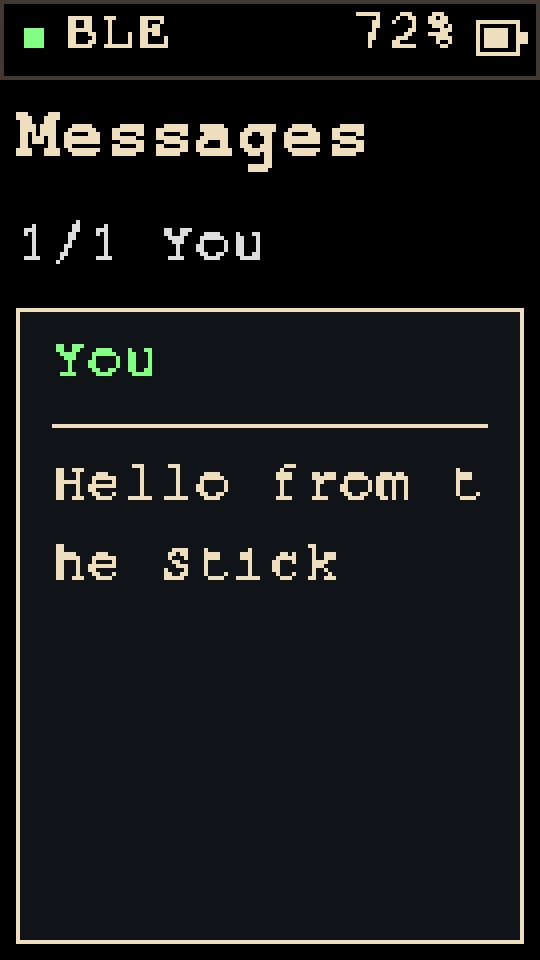
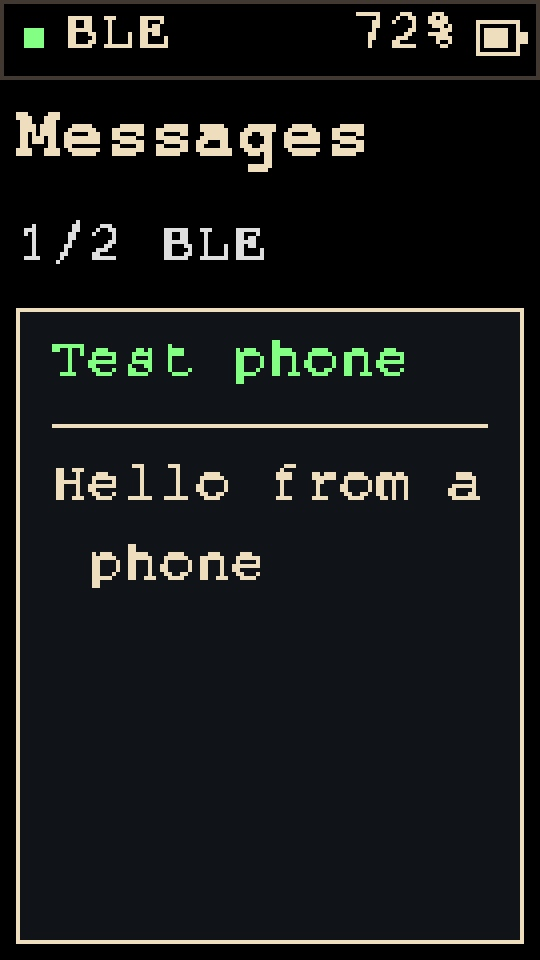
docs: document Mesh inboxes unread badges and read receipts
- Match the owner's Mesh naming and separate shared chat from direct messages.
- Refresh JPEG previews with synthetic incoming traffic and unread indicators.
- Record the installed firmware hash and two authenticated hardware connections.
- Extend device acceptance checks for per-message unread and delivered-to-read transitions.

diff --git a/tools/export-preview-jpegs.swift b/tools/export-preview-jpegs.swift
@@ -15,7 +15,7 @@ func text(_ text:String,_ x:CGFloat,_ y:CGFloat,_ size:CGFloat,_ bold:Bool=false
 text("BITCHAT STICK",48,31,38,true)
 text("FreeMono / cream #EBDCBA / 135 × 240 / simulated data",50,86,19)
 let names=["07-splash","01-dashboard","02-nearby-peers","03-channels","04-channel-messages","05-infobot","06-settings","08-brightness","10-battery","09-about","11-diagnostics"]
-let titles=["START","HOME","NEARBY","CHANNELS","MESSAGES","INFOBOT","SETTINGS","BRIGHTNESS","BATTERY","ABOUT","DIAGNOSTICS"]
+let titles=["START","HOME","NEARBY","INBOX","MESSAGES","INFOBOT","SETTINGS","BRIGHTNESS","BATTERY","ABOUT","DIAGNOSTICS"]
 for i in 0..<11 {
  let x=CGFloat(50+(i%6)*360),y=CGFloat(i<6 ? 145:615)
  text(titles[i],x,y,16,true)

diff --git a/test/ui_preview.cpp b/test/ui_preview.cpp
@@ -1,6 +1,8 @@
 #include "../src/Ui.cpp"
 #include <cassert>
 #include <fstream>
+#include <Preferences.h>
+#include "PacketSecurity.h"
 namespace stick {
 bool transportReady(){return true;}
 size_t transportLinks(){return 1;}
@@ -23,6 +25,14 @@ int main(int argc, char** argv) {
   auto entropy=[](void* out,size_t n){for(size_t i=0;i<n;++i)static_cast<uint8_t*>(out)[i]=uint8_t(i+17);};
   assert(identity.begin(entropy));mesh().begin(identity,entropy,[](wire::Bytes,uint16_t,uint16_t){return true;});
   mesh().tick(3000,1800000000000ULL);assert(mesh().sendText("Hello from the Stick"));
+  // Synthetic incoming public traffic exercises the unread envelope and real peer grouping.
+  fake_preferences::identityExists=false;fake_preferences::identityLength=0;
+  Identity other;auto otherEntropy=[](void* out,size_t n){for(size_t i=0;i<n;++i)static_cast<uint8_t*>(out)[i]=uint8_t(i+59);};assert(other.begin(otherEntropy));
+  uint8_t announcement[90]={1,10,'T','e','s','t',' ','p','h','o','n','e',2,32};
+  std::memcpy(announcement+14,other.dhPublic(),32);announcement[46]=3;announcement[47]=32;std::memcpy(announcement+48,other.signingPublic(),32);
+  auto incoming=[&](uint8_t type,wire::Bytes payload){uint8_t encoded[4096],scratch[4096],sig[64];size_t n=0;wire::FrameView f;f.type=type;f.ttl=7;f.timestamp=1800000000000ULL;f.sender={other.id(),8};f.payload=payload;
+    assert(wire::signPacket(f,other.signingSecret(),scratch,sizeof(scratch),sig));f.signature={sig,64};assert(wire::encode(f,encoded,sizeof(encoded),n)==wire::Error::None);mesh().receive({encoded,n},1);};
+  incoming(1,{announcement,80});const char* text="Hello from a phone";incoming(2,{reinterpret_cast<const uint8_t*>(text),std::strlen(text)});
   beginUi();battery=72;voltage=4000;
   const Screen pages[]={Screen::Dashboard,Screen::Peers,Screen::Channels,Screen::Messages,Screen::Bot,Screen::Settings,Screen::Splash,Screen::Brightness,Screen::About,Screen::Battery,Screen::Diagnostics};
   const char* names[]={"01-dashboard","02-nearby-peers","03-channels","04-channel-messages","05-infobot","06-settings","07-splash","08-brightness","09-about","10-battery","11-diagnostics"};

diff --git a/docs/04-screens.md b/docs/04-screens.md
@@ -24,17 +24,17 @@ Target: **M5StickC Plus2, 135 × 240 pixels, portrait, en-US**. The editable [Fi
 | A held ≥700ms | Reserved; no confirmation on release |
 | C held ≥700ms | No down action on release; six-second hold retains power off |
 
-Messages returns to Channels on hold-B. Splash only leaves on short-A. Short actions occur on release, with no auto-repeat. The first press after the 30-second screen timeout only wakes the display; navigation stays suppressed until all buttons are released. Scanning continues on its normal schedule. Brightness is restored from a versioned NVS record on boot; invalid/missing records use 50%. Only explicit confirmations write flash; known unchanged saved values are skipped, while invalid/unknown records are repaired. Failed saves show `Not saved / RAM only` in Settings.
+Messages returns to Inbox on hold-B. Splash only leaves on short-A. Short actions occur on release, with no auto-repeat. The first press after the 30-second screen timeout only wakes the display; navigation stays suppressed until all buttons are released. Scanning continues on its normal schedule. Brightness is restored from a versioned NVS record on boot; invalid/missing records use 50%. Only explicit confirmations write flash; known unchanged saved values are skipped, while invalid/unknown records are repaired. Failed saves show `Not saved / RAM only` in Settings.
 
 ## Screens and data sources
 
 | Screen | Live behavior | Limits / future scope |
 |---|---|---|
 | Start | Name, shared controls, A enters Home | Final logo remains a design asset task |
-| Home | Advertisement candidates, signed-peer count, real relay/transport state | Counts do not prove channel membership |
+| Home | Advertisement candidates, signed-peer/unread counts, envelope, real relay/transport state | Counts do not prove channel membership |
 | Nearby | Signed peers take priority when available; otherwise filtered candidates; A opens ID/address details | Signed-only and Noise-authenticated statuses are distinct; RSSI belongs only to observations |
-| Channels | Public BLE `#bluetooth`, transport status and Inbox + DMs; A opens Messages | No private groups or Nostr context |
-| Messages | Twelve-entry public/DM live history with BLE/DM labels; B/C cycle messages; A opens text-scroll mode; B/C scroll; hold-B leaves detail, then returns to Channels | RAM-only, 192 displayed bytes, truncation indicated; no composer |
+| Inbox | Separate Mesh (`#bluetooth`) and Direct DMs destinations with unread counts; A opens the selected history | No private groups or Nostr context |
+| Messages | Twelve-entry public/DM live history with BLE/DM labels; B/C cycle messages; A opens text-scroll mode; B/C scroll; hold-B leaves detail, then returns to Inbox | RAM-only, 192 displayed bytes, truncation indicated; no composer |
 | InfoBot | Command reference, authentication readiness, immediate Bot ON/OFF switch | Toggle is per boot; Welcome OFF |
 | Settings | Four working destinations | Additional configuration is future scope |
 | Brightness | Five presets, explicit apply, persistent value, visible save failure | Physical 5% readability remains to be checked |
@@ -93,3 +93,9 @@ The **95 × 95px** QR points to **https://github.com/wanderlima/bitchat-stick**.
 ## Verification and previews
 
 The [eleven JPEG previews](screens/README.md) are generated from current drawing calls and pinned font bitmaps, using simulated measurements. They are not hardware screenshots or protocol evidence. The host UI regression checks controls, applied-versus-focused brightness, all screens, live status, ordinary/candidate/empty peers, large counters and text/rectangle bounds. Physical readability, battery behavior, radio scanning, and QR camera reading need a device pass after upload.
+
+## Inbox and read state
+
+**Mesh** is a label for the apps' existing public local mesh (`#bluetooth`), not a new room created by the Stick. Multiple nearby participants share it. **Direct DMs** filters private messages addressed to the Stick. The header envelope appears whenever a retained incoming message is unread; Home and each inbox show counts. Viewing one message marks only that entry read. Incoming messages do not replace the message currently being read.
+
+For DMs, a local read schedules the official encrypted Noise read receipt (`0x02` plus the original message ID). Unopened DMs produce only delivered receipts (`0x03`). Pending read receipts retry with bounded work when a suitable authenticated session is available. A queued receipt is not guaranteed radio delivery, and read state is not persisted across reboot.

diff --git a/docs/13-device-checklist.md b/docs/13-device-checklist.md
@@ -9,7 +9,9 @@ Date: **2026-11-10**. Device name: **Bitchat Stick**. Supported context: public 
 - [x] Reproduced startup reboot loop fixed by pausing scanning during GATT registration.
 - [x] Android 2.2.0 recognized the Stick's signed announcement and established Noise; Stick reported an authenticated peer with zero protocol rejects during observation.
 - [x] Owner confirmed that the device appeared in the network.
-- [ ] Final display, full iOS messaging, two-phone relay and endurance acceptance below.
+- [x] Final short USB observation showed two subscribed links and two authenticated peers; this is not indirect-relay proof.
+- [x] Owner confirmed Android DM delivery status and reading the DM on the Stick.
+- [ ] Final display, unread/read-status acceptance, full iOS messaging, controlled relay and endurance below.
 
 ## 1. Display and navigation
 
@@ -38,7 +40,8 @@ Date: **2026-11-10**. Device name: **Bitchat Stick**. Supported context: public 
 
 Use your own test phones and synthetic content. Public BLE messages are visible to nearby participants.
 
-- [ ] From Android, send a unique public message such as `android-stick-001` in #bluetooth; it appears in Channels → Messages on the Stick.
+- [ ] In Inbox, verify **Mesh** and **Direct DMs** are separate. Mesh is the shared local public conversation, not a room created by the Stick.
+- [ ] From Android, send a unique public message such as `android-stick-001` in #bluetooth; it appears in Inbox → Mesh on the Stick.
 - [ ] Repeat from iPhone with `ios-stick-001`. Verify sender name and actual content.
 - [ ] B/C changes message; A enters text scrolling; B/C scrolls long text; hold-B leaves detail, then Messages.
 - [ ] Send long text, accents and emoji: no crash, unsupported display glyphs are substituted, and truncation is indicated when applicable.
@@ -51,11 +54,13 @@ Use your own test phones and synthetic content. Public BLE messages are visible 
 ## 4a. Private-message reader
 
 - [ ] Wait for **Noise auth**, then send a new DM from Android directly to **Bitchat Stick**.
-- [ ] Open Channels → Messages: the message appears with a **DM** label and correct sender/content.
-- [ ] The Android delivery indicator may update after the encrypted delivered receipt; this is not a read receipt.
+- [ ] Open Inbox → Direct DMs: the message appears with a **DM** label and correct sender/content.
+- [ ] Before opening the DM on the Stick, Android should show delivered only. Opening it sends the encrypted read receipt; verify Android changes to read within a few seconds while connected.
 - [ ] Repeat from iPhone; test long text and reconnect. Earlier DMs sent before the update are not automatically recovered.
 - [ ] Send `!info` as a DM: it is displayed privately and never produces a public InfoBot reply.
-- [ ] Check Home's message count and mixed BLE/DM history without confusing public-channel privacy.
+- [ ] A new incoming message shows the envelope and increments unread counts. Reading one entry clears only that entry; opening Mesh must not clear unread DMs.
+- [ ] While reading an older message, a new arrival preserves focus and remains unread.
+- [ ] Repeat the delivered → read transition on iPhone; test reconnect before opening the DM.
 
 ## 5. Controlled relay — do not skip negative controls
 
@@ -74,4 +79,4 @@ Use your own test phones and synthetic content. Public BLE messages are visible 
 
 ## Limits that are not failures of this version
 
-No private-message sending, media/groups, geographic/Nostr channels, sync/history recovery, OTA or message composer/canned-reply UI. History and peer pins are in RAM; local identity and brightness persist in unencrypted NVS. Outgoing public sending is currently exercised through InfoBot and public relay; private sending is limited to protocol delivery receipts. Queue/notification acceptance is not end-to-end delivery confirmation. Welcome automation intentionally stays disabled.
+No private-message sending, media/groups, geographic/Nostr channels, sync/history recovery, OTA or message composer/canned-reply UI. History and peer pins are in RAM; local identity and brightness persist in unencrypted NVS. Outgoing public sending is currently exercised through InfoBot and public relay; private sending is limited to protocol delivery receipts. Queue/notification acceptance is not end-to-end delivery confirmation; the sender app must actually receive the encrypted delivered/read receipt. Welcome automation intentionally stays disabled.

diff --git a/docs/11-implementation-plan.md b/docs/11-implementation-plan.md
@@ -1,6 +1,6 @@
 # Implementation plan by screen and complexity
 
-Updated: **2026-11-10**. English (en-US) firmware v0.2.0. Source implementation is complete for the current eleven-screen public-BLE scope. Physical acceptance is intentionally separate: use the [device checklist](13-device-checklist.md). Future product ideas are not represented as implemented.
+Updated: **2026-11-10**. English (en-US) firmware v0.2.0. Source implementation is complete for the current eleven-screen public-BLE and received-DM scope. Physical acceptance is intentionally separate: use the [device checklist](13-device-checklist.md). Future product ideas are not represented as implemented.
 
 ## Screen order — lowest to highest complexity
 
@@ -12,10 +12,10 @@ Updated: **2026-11-10**. English (en-US) firmware v0.2.0. Source implementation 
 | 4 | Brightness | 5/25/50/75/100%, explicit apply, NVS persistence/error handling | All levels on USB/battery; full power cycle |
 | 5 | Battery | Voltage, approximate percentage, unknown/low states | Compare USB/battery; measure actual endurance |
 | 6 | Diagnostics | BLE reports/drops, heap, uptime, mesh accept/reject and clock | Long-run counters and memory trend |
-| 7 | Home | Candidate/peer totals, relay state, live header | State transitions, no erase/redraw flicker |
+| 7 | Home | Candidate/peer/unread totals, relay state, live header | State transitions, no erase/redraw flicker |
 | 8 | Nearby | Filtered candidates, signed peers, Noise authentication, stable candidate selection, IDs/details | Android/iOS foreground/background/reconnect behavior |
 | 9 | Messages | Signed public and authenticated private input, bounded history, paging and text scrolling | Real text, Unicode substitution, truncation, reconnect |
-| 10 | Channels | Public BLE #bluetooth and actual transport availability | Offline context and controlled indirect forwarding |
+| 10 | Inbox | Public BLE #bluetooth and actual transport availability | Offline context and controlled indirect forwarding |
 | 11 | InfoBot | Authenticated fresh commands, reply limits, ON/OFF control, welcomes OFF | Cross-platform replies, cooldown, no reply loops |
 
 ## Completed engineering groups
@@ -31,6 +31,9 @@ Updated: **2026-11-10**. English (en-US) firmware v0.2.0. Source implementation 
 9. Fix the hardware-reproduced startup assertion; add idle-GAP, overflow and fragment transport regressions.
 10. Automatically initiate Noise after discovery; verify Android announcement and handshake on hardware.
 11. Connect all current screens to real state, add the bot switch, buffer display updates, and document acceptance limits.
+12. Decode received DMs and send encrypted delivered receipts without exposing private text to InfoBot.
+13. Separate Mesh/Direct DMs inboxes; add unread envelope/counts and stable per-message read state.
+14. Send encrypted read receipts when a DM is displayed, with bounded retries and explicit mobile acceptance checks.
 
 Each implementation group is committed separately; no push is part of this work. Native success and upload verification do not turn the remaining physical checks into passes.
 

diff --git a/docs/06-testing.md b/docs/06-testing.md
@@ -86,11 +86,20 @@ The first integrated upload reproduced a NimBLE GATT-registration assertion whil
 
 The framebuffer revision was built/uploaded after the owner reported lighter redraw flicker; physical visual acceptance remains with the owner. Use the [device checklist](13-device-checklist.md) to record the final revision, both phone versions and each actual result.
 
-### Final installed source snapshot
+### Earlier DM-reader snapshot (superseded)
 
 - Firmware source commit: `1872efb` (documentation/export commits afterward do not change the installed firmware).
[1 lines of base64/hex data omitted]
 - Target build: 97,336 bytes static RAM and 974,785 bytes application flash; the 64,800-byte display canvas is allocated dynamically in PSRAM.
 - Final observed runtime samples: one subscribed link, one authenticated peer, active RTC, zero rejected packets in the captured interval and about 145,000 bytes free internal heap. These are short observations, not endurance results.
 - Fourteen native suites and the independent CryptoKit signature check passed after private-text/receipt integration. JPEG previews were regenerated from the real UI with simulated data and visually inspected.
-- The owner's initial missing message was identified as an Android DM sent before private-text display support. The DM reader/receipt update was installed and a new trial requested; receipt/display of that retry has not yet been confirmed.
+- The owner's initial missing message was identified as an Android DM sent before private-text display support. The DM reader/receipt update was installed; the owner subsequently confirmed Android delivery status and reading the DM on the Stick. Remote read status was not yet implemented at that checkpoint.
+
+### Current installed Inbox / Mesh / read-receipt revision
+
+- Firmware source commit: `ca9f68b`. Later documentation/export changes do not alter the installed firmware.
[1 lines of base64/hex data omitted]
+- Build: 98,296 bytes static RAM; 977,057 bytes application flash. Upload completed with hash verification.
+- Final short USB observation: `links=2 peers=2 auth=2 accepted=13 rejected=0 queued=16 relay=7 drops=3 heap=144040 clock=RTC`. This confirms simultaneous subscribed/authenticated peers and source-level forwarding activity, not a controlled indirect-delivery test. Drops include attempts without a usable destination; they are not equivalent to protocol rejections.
+- Native suites passed after inbox filtering, unread tracking, stable reader focus and encrypted read receipts. Tests decrypt the exact read-receipt payload, verify no read receipt before opening, and retry a failed enqueue.
+- Owner confirmed Android delivery and DM reading before this revision. The new Android/iOS delivered-to-read UI transition remains a manual acceptance check.

diff --git a/README.md b/README.md
@@ -41,12 +41,13 @@ The interface uses FreeMono Regular/Bold, warm cream `#EBDCBA` instead of pure w
 
 ## Live features and remaining scope
 
-- Home, Nearby, Channels, Messages, InfoBot, Settings, Brightness, Battery, About, and Diagnostics use real firmware state.
+- Home, Nearby, Inbox, Messages, InfoBot, Settings, Brightness, Battery, About, and Diagnostics use real firmware state.
 - Nearby distinguishes service-advertisement candidates, signed peers, and Noise-authenticated peers. A signed name is not an out-of-band verified human identity.
-- Channels opens the public BLE `#bluetooth` context. Messages reads signed public text and authenticated DMs, with explicit BLE/DM labels. It keeps twelve RAM-only entries, with message paging and text scrolling; at most 192 bytes are rendered per entry, with an explicit truncation mark.
+- Inbox separates **Mesh** (the shared public BLE `#bluetooth` context) and **Direct DMs** (private messages addressed to this Stick). It does not create a new channel. Messages reads signed public text and authenticated DMs, with explicit BLE/DM labels. It keeps twelve RAM-only entries, with message paging and text scrolling; at most 192 bytes are rendered per entry, with an explicit truncation mark.
 - Signed public announcements and text are verified, deduplicated, and eligible for TTL-limited forwarding without echoing the ingress link. Queue acceptance is not a delivery acknowledgement.
 - InfoBot supports `!info`, `!rules`, and `!help`, plus `!regras`/`!ajuda` aliases. Commands require an authenticated peer and recent signed public text. Per-peer/global limits prevent reply floods. The on-device `Bot: ON/OFF` switch applies immediately for the current boot.
 - Welcome messages remain OFF because discovery/reconnection does not reliably prove channel entry.
+- An envelope in the header indicates unread incoming messages. Home and each inbox show unread counts; opening a DM sends an encrypted read receipt. New arrivals preserve the current reading position. Unread state is RAM-only.
 - Drawing uses a 135 × 240 offscreen framebuffer before updating the display, avoiding the visible erase/redraw cycle.
 
 Private-message composition/media, private groups, Nostr, gossip/history synchronization, arbitrary routed Noise forwarding, OTA, persistent chat history, and Pocket Messenger composition/canned replies remain future scope. See the [wire contract and security limits](docs/12-wire-contract.md) and [current implementation plan](docs/11-implementation-plan.md).

diff --git a/docs/09-getting-started.md b/docs/09-getting-started.md
@@ -14,6 +14,7 @@ Firmware **v0.2.0**, English (en-US). Source implementation and physical accepta
 - Signature-checked public relay with TTL reduction, deduplication and ingress exclusion; paced MTU-aware notifications with bounded queues.
 - Authenticated, recent public InfoBot commands and rate limits; immediate on-device Bot ON/OFF switch. This switch resets to ON at reboot; brightness and local identity persist.
 - Real repository QR, Wander Lima credits, BLE/heap/uptime counters and UTC RTC status. Serial telemetry contains counters, not message bodies or private keys.
+- Separate Mesh/Direct DMs inboxes, header unread envelope and per-message read state. Opening a DM schedules its encrypted read receipt; unopened messages remain unread.
 
 ## Confirmed hardware evidence
 
@@ -135,6 +136,6 @@ Only the loop mutates PeerTable. BLE callbacks enqueue fixed-size observations w
 
 The v0.2 target built and uploaded successfully. Native tests cover fourteen suites plus an independent CryptoKit signature check. The hardware-reproduced GATT startup assertion was corrected, Android verified the announcement and Noise session, and the owner confirmed network visibility. Buffered drawing replaces normal direct erase/redraw; visual acceptance remains a device check.
 
-The owner initially tested a DM while the reader supported only public BLE text. Authenticated private-text decoding, encrypted delivery receipts and DM labels were subsequently added. DMs remain separate from public InfoBot processing; DM commands never generate public replies. Direct-message sending/composition is still future scope.
+The owner initially tested a DM while the reader supported only public BLE text. Authenticated private-text decoding, encrypted delivery receipts and DM labels were subsequently added. DMs remain separate from public InfoBot processing; DM commands never generate public replies. Direct-message sending/composition is still future scope. The owner confirmed Android delivery status and reading the DM on the Stick; encrypted read acknowledgements were added afterward and still require final app-side acceptance.
 
 The earlier brightness self-test verified NVS readback across ESP32 restart and restored the original setting. Use the [complete acceptance checklist](13-device-checklist.md) for final display, Android/iOS message reception, controlled relay, reconnect and battery tests. Upload verification does not mark those tests as passed.

diff --git a/docs/12-wire-contract.md b/docs/12-wire-contract.md
@@ -120,3 +120,9 @@ UTC is read from the Plus2 RTC. The build timestamp repairs an unset/older RTC a
 Noise payload type `0x01` is decoded as the official private-text TLV packet: one-byte type/length, required message ID (`0x00`) and content (`0x01`). The decoder requires authenticated peer state, nonempty valid UTF-8, unique known fields, a message ID of at most 64 bytes and exact lengths. IDs are deduplicated together with sender identity. Received text enters the same bounded RAM history with a DM marker; long content is explicitly truncated for display. Decrypted working buffers are wiped on every exit.
 
 A successful store sends an encrypted `0x03` delivered receipt carrying the original message ID. Retransmissions can be acknowledged without duplicating history. Receipt means received/stored, not read. No DM is sent to the public relay or InfoBot. Private media/groups, courier envelopes and DM composition remain unsupported. Native tests cover private decoding, receipts, re-encrypted duplicates, malformed TLVs and isolation of `!info` inside a DM.
+
+## Inbox, unread state and read receipts
+
+Each retained message has a local sequence ID and unread flag; public/private filters share the twelve-entry bound. Outgoing messages start read. The unread envelope/counts derive from retained incoming entries, so overwriting history also removes its old unread entry. UI focus follows the sequence ID rather than a shifting ring offset. Opening the wrong inbox or remaining on Home does not mark a DM read.
+
+Private entries retain at most 64 bytes of message ID plus the sender ID. Once displayed, a pending read receipt uses Noise payload `0x02` followed by the exact original message-ID bytes, matching the official payload factory. At most one live-session encryption/enqueue attempt is made per second; unavailable sessions leave the receipt pending. Queue failures retry, and successfully queued receipts are not repeatedly emitted on redraw. Tests verify the exact decrypted receipt, no receipt before opening, per-message counts, queue retry, filtering, focus stability and eviction. No public read receipt is generated.

diff --git a/docs/screens/README.md b/docs/screens/README.md
@@ -22,9 +22,9 @@ The current revision restores grouped panels, the green Nearby card and left bor
 
 ![Nearby green observation card](02-nearby-peers.jpg)
 
-## Channels
+## Inbox
 
-![Channel availability](03-channels.jpg)
+![Mesh and Direct DMs inboxes](03-channels.jpg)
 
 ## Messages
 
@@ -76,4 +76,4 @@ All eleven views use the actual drawing code. Simulated measurements are confine
 
 ## Reproduce exports
 
-After installing the pinned PlatformIO dependencies, run `sh tools/render-device-previews.sh` on macOS. It renders the real UI calls using the test display, a simulated observation/battery and synthetic outgoing public text, then updates the JPEGs. No message is transmitted and no real identity or conversation is embedded. These previews intentionally do not claim Android/iOS interoperability.
+After installing the pinned PlatformIO dependencies, run `sh tools/render-device-previews.sh` on macOS. It renders the real UI calls using the test display, simulated observations/battery and synthetic signed peer/public-message traffic, then updates the JPEGs. No message is transmitted and no real identity or conversation is embedded. These previews intentionally do not claim Android/iOS interoperability.

diff --git a/docs/10-build-deploy.md b/docs/10-build-deploy.md
@@ -123,7 +123,7 @@ If the monitor starts after this line, it may not appear until the next boot. Ev
 6. Compare voltage/estimate on USB and battery; no measured autonomy is established.
 7. Check About credits/links and Diagnostics, then complete the [hardware checklist](09-getting-started.md#evidence-and-hardware-checklist).
 
-Open Channels → #bluetooth → Messages for the live reader. InfoBot shows authentication readiness and a per-boot enable switch. Complete the [current device checklist](13-device-checklist.md); network visibility alone does not prove forwarding.
+Open Inbox → Mesh → Messages for the live reader. InfoBot shows authentication readiness and a per-boot enable switch. Complete the [current device checklist](13-device-checklist.md); network visibility alone does not prove forwarding.
 
 ## 8. Artifacts and traceability
 
